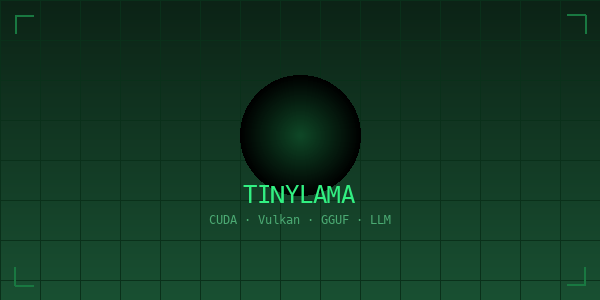
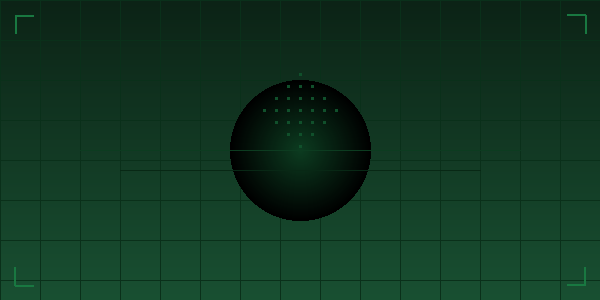
fix: remove text from placeholder thumbnails, fix hamburger visibility

Changed region(s): [[0.33, 0.36, 0.66, 0.75], [0.42, 0.24, 0.57, 0.33], [0.57, 0.36, 0.6, 0.39]]

diff --git a/assets/css/custom.css b/assets/css/custom.css
@@ -200,7 +200,7 @@ header nav a:hover::after {
 
 /* ========== HAMBURGER MENU ========== */
 .nav-toggle {
-  display: none;
+  display: none !important;
   background: none;
   border: none;
   cursor: pointer;
@@ -239,7 +239,7 @@ header nav a:hover::after {
   }
 
   .nav-toggle {
-    display: block;
+    display: block !important;
   }
 
   header nav {
